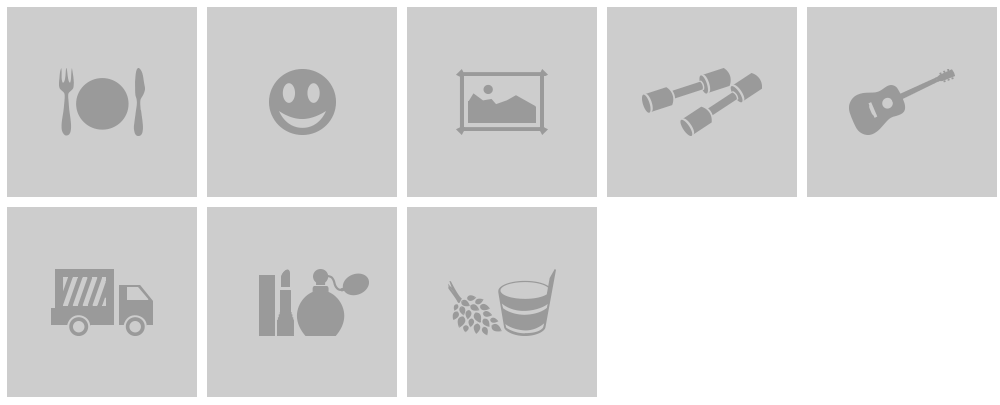
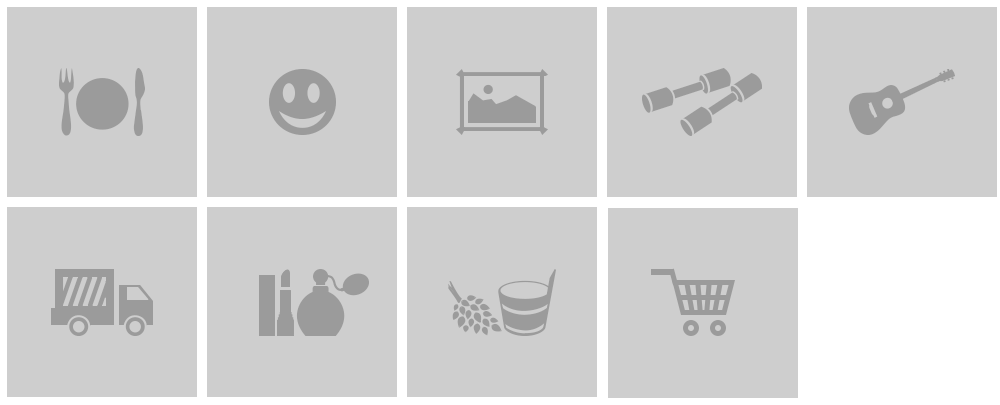
TMP

Changed region(s): [[0.589, 0.5037, 0.806, 1.0]]

diff --git a/app/assets/stylesheets/public/_organizations_posters.sass b/app/assets/stylesheets/public/_organizations_posters.sass
@@ -100,6 +100,9 @@
             .stub_poster
               display: block
               background: transparent image_url('public/organization_stub_poster_kind_big.png') no-repeat top left
+              height: 190px
+              width: 190px
+              margin-left: 2px
 
               &.billiard
                 background-position: -207px -7px
@@ -130,6 +133,9 @@
 
               &.sport
                 background-position: -607px -7px
+
+              &.shop
+                background-position: -608px -208px
 
           .details
             color: #999
